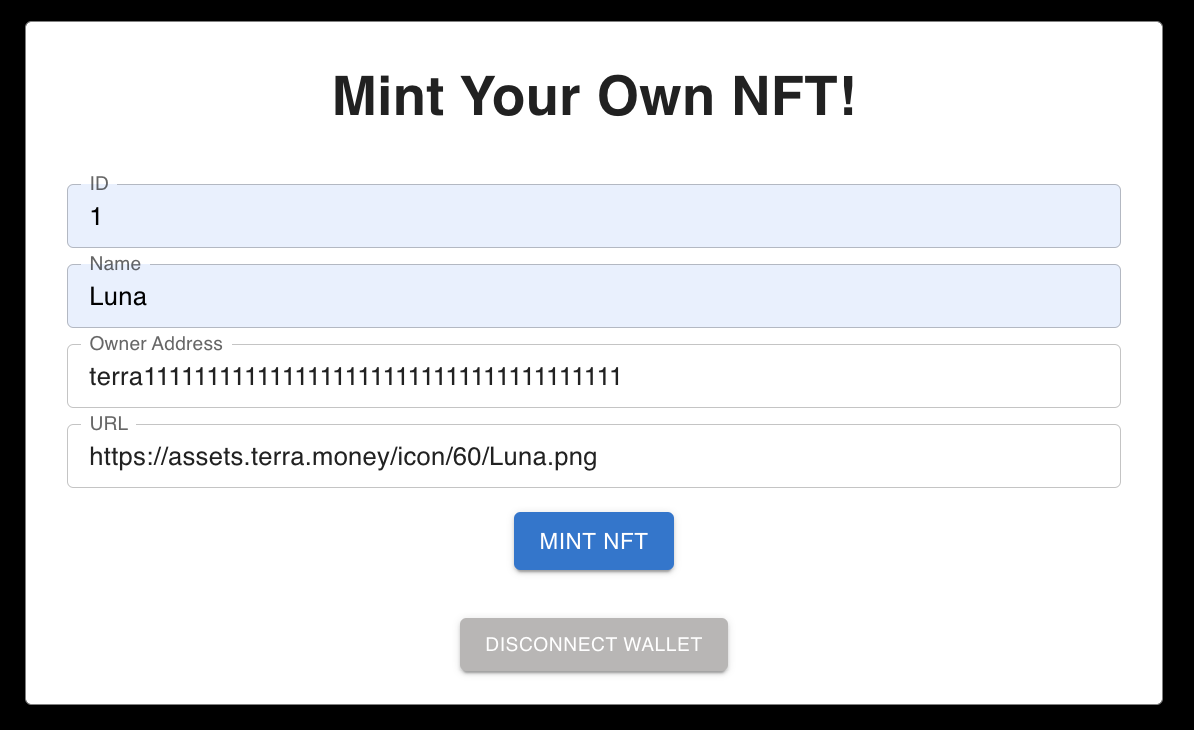
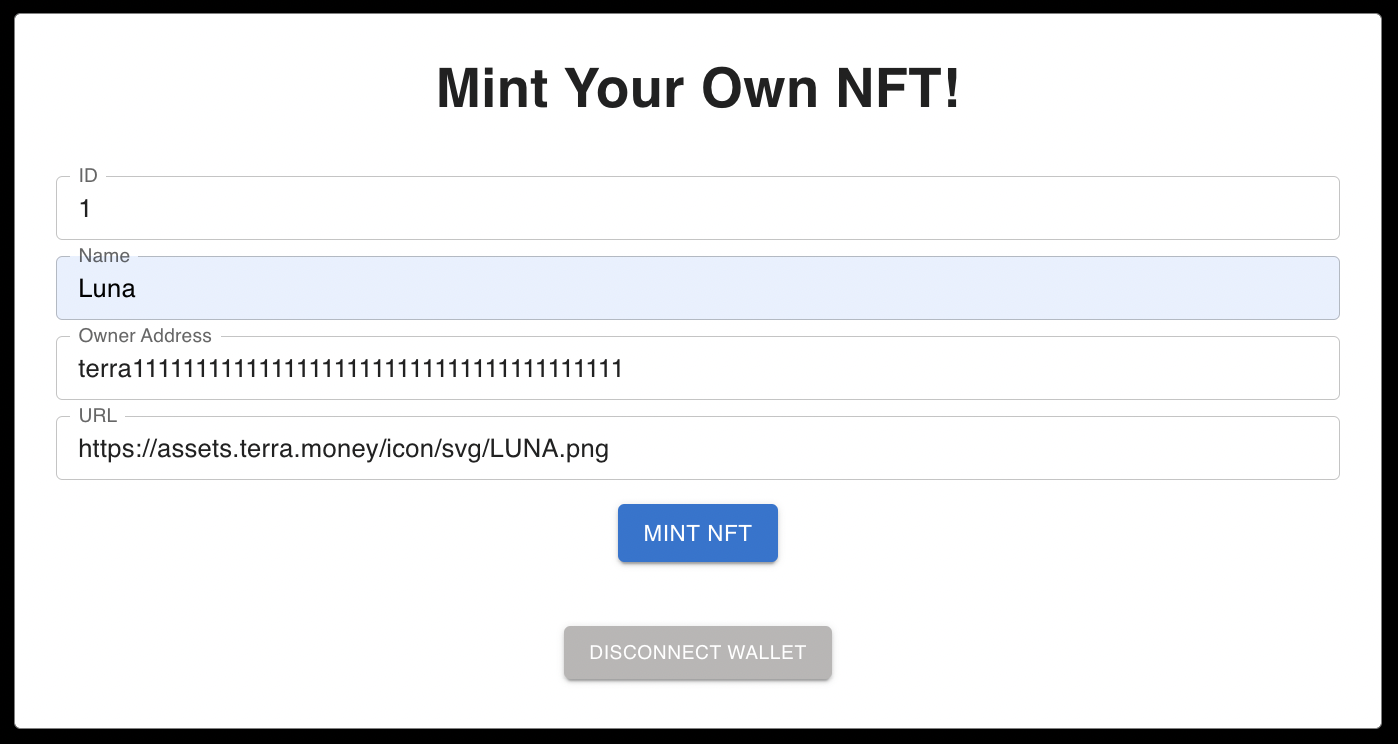
update: docs images
Updating image styling in docs pages, Glossary definitions and links, and the Mint an NFT tutorial. Fixed miscellaneous errors.

diff --git a/src/styles/custom.css b/src/styles/custom.css
@@ -51,3 +51,24 @@
   --ifm-footer-color: #8D8D8D !important;
   --ifm-footer-link-color: #8D8D8D !important;
 }
+
+.readme-img-sm {
+  margin: auto;
+  display: block;
+  width: 300px;
+  padding: 10px 10px 20px 10px;
+}
+
+.readme-img-md {
+  margin: auto;
+  display: block;
+  width: 500px;
+  padding: 10px 10px 20px 10px;
+}
+
+.readme-img-lg {
+  margin: auto;
+  display: block;
+  width: 800px;
+  padding: 10px 10px 20px 10px;
+}
